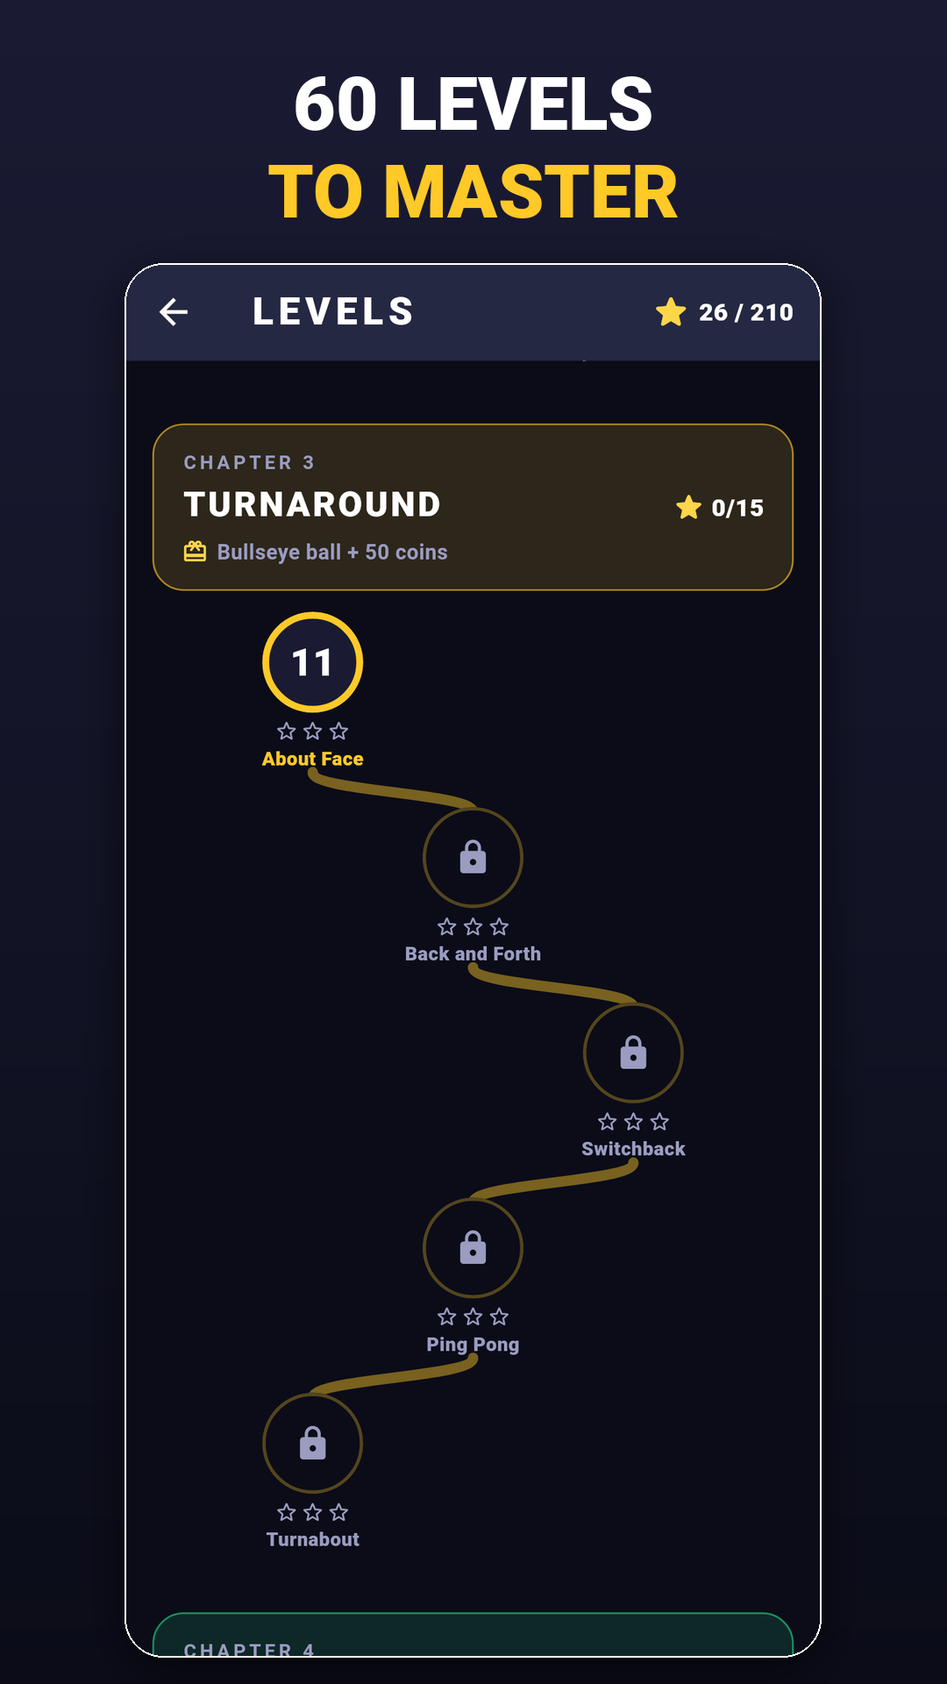
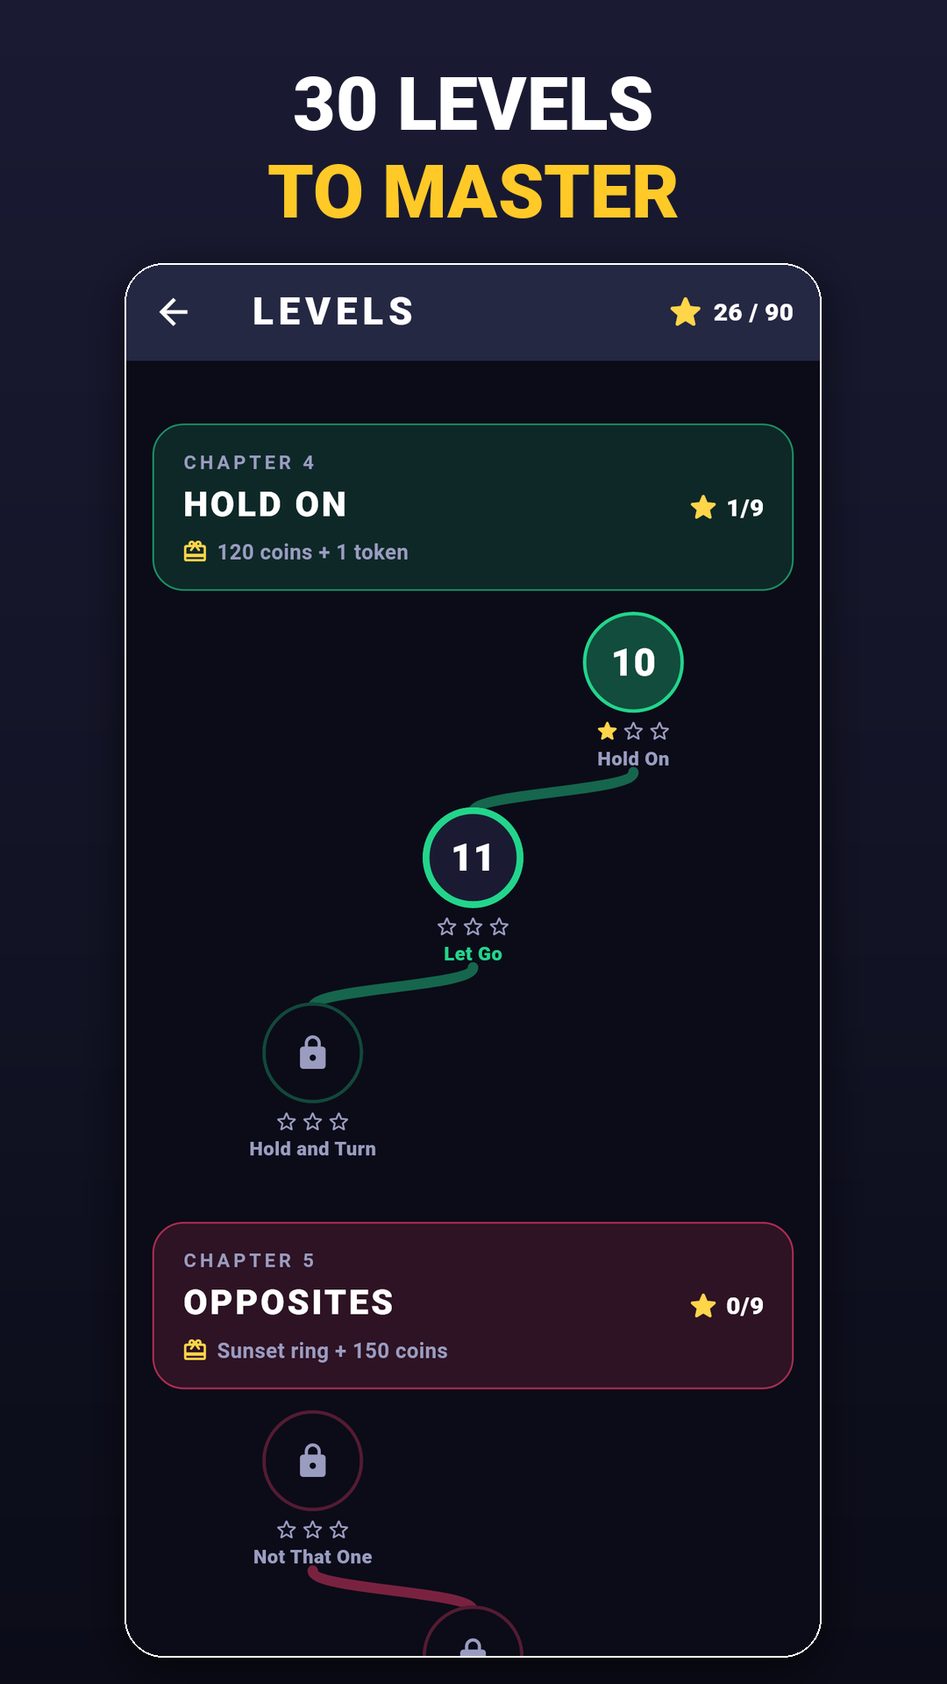
Levels: back to a short introduction, 30 levels in 10 chapters
Three levels per chapter, one chapter per mechanic, including the new
ones: The Basics, Focus, Turnaround (reverse, gold zones, power-ups),
Hold On, Opposites (NOT, decoys), Spin Cycle (spin, ghosts), Split
Second, Fever Pitch, Memory and Mastery (which mixes in holds too).
Difficulty rises evenly to about where the old 24-level map ended.

The Rush time-up test now uses a fixed seed and stops at time-up (a
tap on the game-over screen restarts the run, which made it flaky).

Claude-Session: https://claude.ai/code/session_01VmBvRQvvZ64Y2Kv1F2P6eR

diff --git a/test/new_mechanics_test.dart b/test/new_mechanics_test.dart
@@ -185,12 +185,21 @@ void main() {
 
     test('when time runs out the run ends and is reported once', () {
       final events = <GameEvent>[];
-      final e = newEngine(events)..startRun(best: 0, mode: RunMode.rush);
+      final e = newEngine(events)
+        ..startRun(best: 0, seed: 1, mode: RunMode.rush);
+      // Play until the clock runs out (a tap on the game-over screen would
+      // restart the run, so stop as soon as time is up).
       var guard = 0;
-      while (e.phase != GamePhase.gameOver && guard++ < 2000) {
-        tapTargetCenter(e);
-        if (e.phase == GamePhase.dying) advance(e, 1);
+      while (events.whereType<TimeUpEvent>().isEmpty && guard++ < 2000) {
+        if (e.phase == GamePhase.playing &&
+            e.round!.currentPrimary.hold == false &&
+            timeUntil(e, e.round!.currentPrimary.center) > e.rushLeft) {
+          advance(e, e.rushLeft + 0.1);
+        } else {
+          tapTargetCenter(e);
+        }
       }
+      advance(e, 1);
       expect(e.phase, GamePhase.gameOver);
       final up = events.whereType<TimeUpEvent>().single.summary;
       expect(up.mode, RunMode.rush);

diff --git a/test/meta_test.dart b/test/meta_test.dart
@@ -299,10 +299,10 @@ void main() {
       e.tap(e.time + timeUntil(e, target.center));
     }
 
-    test('70 levels in 14 chapters, unlocked one by one', () {
-      expect(levels, hasLength(70));
-      expect(levels.map((l) => l.chapter).toSet(), hasLength(14));
-      expect(levels.map((l) => l.id).toSet(), hasLength(70));
+    test('30 levels in 10 chapters, unlocked one by one', () {
+      expect(levels, hasLength(30));
+      expect(levels.map((l) => l.chapter).toSet(), hasLength(10));
+      expect(levels.map((l) => l.id).toSet(), hasLength(30));
       expect(levelUnlocked(levels, {}, 0), isTrue);
       expect(levelUnlocked(levels, {}, 1), isFalse);
       expect(levelUnlocked(levels, {'L1': 1}, 1), isTrue);
@@ -333,7 +333,7 @@ void main() {
 
     test('chapters open at a star count and pay out once', () {
       final chapters = chaptersOf(levels);
-      expect(chapters, hasLength(14));
+      expect(chapters, hasLength(10));
       expect(chapters.first.unlockStars, 0);
       for (var i = 1; i < chapters.length; i++) {
         expect(

diff --git a/lib/meta/progression.dart b/lib/meta/progression.dart
@@ -431,7 +431,7 @@ final achievementDefs = <AchievementDef>[
     'levels_all',
     'Graduate',
     'Clear every level',
-    (p) => p.stat(Stat.levelsDone) >= 70,
+    (p) => p.stat(Stat.levelsDone) >= 30,
   ),
   AchievementDef(
     'level_10',

diff --git a/tool/generate_levels.py b/tool/generate_levels.py
@@ -1,9 +1,10 @@
 #!/usr/bin/env python3
-"""Writes assets/config/levels.json: 12 chapters x 5 levels.
+"""Writes assets/config/levels.json: 10 chapters x 3 levels, an introduction
+to every mechanic (Endless is the long game).
 
-Difficulty rises slowly and evenly over the whole map (pointer speed, zone
-size and target count follow the level's position), and every chapter opens
-with an easier lesson level for its new mechanic. Edit the tables below and
+Difficulty rises evenly over the map (pointer speed, zone size and target
+count follow the level's position), and a chapter's lesson level plays like
+an earlier one. Edit the tables below and
 re-run:
 
     python3 tool/generate_levels.py
@@ -26,165 +27,77 @@ CHAPTERS = [
         ("Sweet Spot", "The bright band inside each zone is the Perfect window. Perfects are worth 3, and in a row they raise your combo.",
          {"colors": [1, 1]}, {"ease": 1}, ["perfects:4", "streak:3"]),
         ("Two Colors", "Now there are two colors. Only the one matching the ball counts.",
-         {"colors": [2, 2]}, {}, None),
-        ("Pick the Right One", "Three colors on the ring. Find the ball's color first, then wait for it.",
-         {"colors": [2, 3]}, {}, None),
-        ("Warm-Up Run", "Clear the dots above the ball in a row for a set bonus.",
-         {"colors": [2, 3], "locks": [2, 3]}, {}, None),
+         {"colors": [2, 2]}, {}, ["perfects:5", "streak:4"]),
     ]),
     ("Focus", {"coins": 100}, [
         ("Slow Down", "Perfects fill the FOCUS button in the corner. Tap it to slow time while the meter lasts. Taps on it never count as a miss.",
          {"colors": [1, 2]}, {"ease": 2}, ["focus:1", "streak:3"]),
-        ("Save It", "Focus runs out fast. Save it for the round that needs it.",
-         {"colors": [2, 2]}, {"ease": 1}, ["focus:1", "streak:4"]),
-        ("Twice as Calm", "Fill the meter again with Perfects, then use it again.",
-         {"colors": [2, 3]}, {}, ["focus:2", "perfects:5"]),
+        ("Save It", "Focus runs out fast. Fill it again with Perfects and save it for the round that needs it.",
+         {"colors": [2, 2]}, {"ease": 1}, ["focus:2", "perfects:5"]),
         ("Tiny Targets", "Small zones. Slow time to land them.",
-         {"colors": [2, 3]}, {"sizeDelta": -10}, ["focus:2", "streak:4"]),
-        ("Steady Under Pressure", "Faster, with lock sets. Focus is your friend.",
-         {"colors": [2, 3], "locks": [2, 3]}, {"speedDelta": 5}, ["focus:2", "streak:5"]),
+         {"colors": [2, 3]}, {"sizeDelta": -8}, ["focus:2", "streak:4"]),
     ]),
     ("Turnaround", {"coins": 50, "ball": "bullseye"}, [
         ("About Face", "REVERSE: the pointer flips direction after every hit.",
-         {"colors": [1, 1], "reverse": 1}, {"ease": 1}, None),
-        ("Back and Forth", "Sometimes it flips, sometimes it doesn't. Watch the pointer, not the clock.",
-         {"colors": [2, 2], "reverse": 0.6}, {}, None),
-        ("Switchback", "Every hit flips it, with more colors to choose from.",
-         {"colors": [2, 3], "reverse": 1}, {}, None),
-        ("Ping Pong", "Short hops back and forth. Stay calm.",
-         {"colors": [2, 3], "reverse": 0.8, "locks": [2, 3]}, {}, None),
-        ("Turnabout", "Three colors, flips and lock sets together.",
-         {"colors": [3, 3], "reverse": 0.7, "locks": [2, 4]}, {}, None),
+         {"colors": [1, 1], "reverse": 1}, {"ease": 1}, ["perfects:4", "streak:4"]),
+        ("Greedy", "GREEDY: a thin gold-rimmed zone is worth +5. Go for it, or wait for the safe one.",
+         {"colors": [2, 2], "reverse": 0.5, "bonus": 0.8}, {}, ["greedy:1", "greedy:3"]),
+        ("Lock Sets", "Clear the dots above the ball in a row for a set bonus. Power-ups ride on targets: shield, slow-mo and wide.",
+         {"colors": [2, 3], "reverse": 1, "locks": [3, 4]}, {"powerUpChance": 0.4}, ["powerUps:1", "streak:4"]),
     ]),
     ("Hold On", {"coins": 120, "tokens": 1}, [
         ("Hold On", "HOLD: some targets are long, with a white mark at the end. Press when the pointer is in it, keep holding, and let go on the mark.",
          {"colors": [1, 1], "hold": 1}, {"ease": 2}, ["holds:3", "perfects:2"]),
         ("Let Go", "Letting go right on the white mark is a Perfect. Too soon is a miss.",
          {"colors": [1, 2], "hold": 1}, {"ease": 1}, ["holds:5", "perfects:4"]),
-        ("Mix It Up", "Taps and holds, one after the other. Read each target.",
-         {"colors": [2, 2], "hold": 0.6}, {}, ["holds:3", "streak:4"]),
-        ("Hold and Turn", "Holds with a pointer that flips.",
+        ("Hold and Turn", "Taps and holds, with a pointer that flips. Read each target.",
          {"colors": [2, 3], "hold": 0.7, "reverse": 0.6}, {}, ["holds:3", "streak:4"]),
-        ("Long Haul", "Lots of holds. Use Focus on the tough ones.",
-         {"colors": [2, 3], "hold": 0.7, "locks": [2, 3]}, {}, ["holds:6", "streak:5"]),
     ]),
-    ("Gold Rush", {"coins": 150, "tokens": 1}, [
-        ("Greedy", "GREEDY: a thin gold-rimmed zone is worth +5. Go for it, or wait for the safe one.",
-         {"colors": [1, 2], "bonus": 0.8}, {"ease": 1}, ["greedy:1", "greedy:3"]),
-        ("Power-Ups", "Badges ride on targets: hit the target to collect them. Shield, slow-mo and wide.",
-         {"colors": [2, 2]}, {"powerUpChance": 0.4}, ["powerUps:1", "streak:4"]),
-        ("Shield Up", "A shield absorbs one miss. Keep it to the end for a star.",
-         {"colors": [2, 3], "reverse": 0.3}, {"powerUpChance": 0.4, "powerUpTypes": ["shield"]}, ["shield", "streak:4"]),
-        ("Lucky Streak", "Gold zones and power-ups. Greed is good, sometimes.",
-         {"colors": [2, 3], "bonus": 0.5, "locks": [2, 3]}, {"powerUpChance": 0.3}, ["greedy:1", "streak:5"]),
-        ("Treasure Hunt", "Everything so far, with gold on top.",
-         {"colors": [2, 3], "bonus": 0.5, "reverse": 0.5, "locks": [2, 4]}, {"powerUpChance": 0.2}, None),
-    ]),
-    ("Opposites", {"theme": "sunset"}, [
+    ("Opposites", {"coins": 150, "theme": "sunset"}, [
         ("Not That One", "NOT: the ball shows a crossed-out color. Hit any color EXCEPT that one.",
          {"colors": [3, 3], "inverted": 1}, {"ease": 1}, None),
-        ("Anything But", "NOT rounds now and then. Read the ball before you tap.",
-         {"colors": [3, 3], "inverted": 0.5}, {}, None),
-        ("Mixed Signals", "NOT rounds and flips together.",
-         {"colors": [3, 3], "inverted": 0.4, "reverse": 0.5}, {}, None),
-        ("Double Negative", "Four colors, lots of NOTs.",
-         {"colors": [3, 4], "inverted": 0.5}, {}, None),
-        ("Contrary", "NOT, flips and gold zones.",
-         {"colors": [3, 4], "inverted": 0.4, "reverse": 0.6, "bonus": 0.3}, {}, None),
-    ]),
-    ("Decoys", {"coins": 200}, [
         ("Decoys", "DECOYS: a wrong color sits right next to the right one. Tap a little early or late and you lose.",
-         {"colors": [3, 3], "decoys": 1}, {"ease": 1}, None),
-        ("Close Call", "Decoys on every round. Aim for the middle.",
          {"colors": [3, 4], "decoys": 1}, {}, ["perfects:6", "ratio:60"]),
-        ("Fakeout", "Decoys and flips.",
-         {"colors": [3, 4], "decoys": 1, "reverse": 0.6}, {}, None),
-        ("Near Miss", "Decoys with NOT rounds: the wrong color might be the right one.",
-         {"colors": [3, 4], "decoys": 1, "inverted": 0.3}, {}, None),
-        ("Hall of Mirrors", "Decoys, flips and NOTs together.",
-         {"colors": [3, 4], "decoys": 1, "reverse": 0.6, "inverted": 0.3, "locks": [2, 4]}, {}, None),
+        ("Mixed Signals", "NOT rounds, decoys and flips together. Read the ball first.",
+         {"colors": [3, 4], "decoys": 1, "reverse": 0.6, "inverted": 0.4}, {}, None),
     ]),
-    ("Spin Cycle", {"coins": 50, "ball": "swirl"}, [
+    ("Spin Cycle", {"coins": 150, "tokens": 1}, [
         ("Carousel", "SPIN: the ring turns too, so zones move while the pointer moves.",
          {"colors": [2, 2], "rotate": 1}, {"ease": 1}, None),
-        ("Merry-Go-Round", "Spinning rings with more colors.",
-         {"colors": [2, 3], "rotate": 0.8}, {}, None),
-        ("Counterspin", "The ring and the pointer don't always turn the same way.",
-         {"colors": [2, 3], "rotate": 1, "reverse": 0.5}, {}, None),
-        ("Whirl", "Spin and decoys.",
-         {"colors": [3, 4], "rotate": 0.8, "decoys": 1}, {}, None),
-        ("Tilt-a-Whirl", "Spin, flips and NOTs.",
-         {"colors": [3, 4], "rotate": 0.7, "reverse": 0.5, "inverted": 0.3}, {}, None),
-    ]),
-    ("Ghosts", {"coins": 150, "tokens": 1}, [
         ("Ghosts", "GHOST: zones blink in and out. They always start visible: remember where they are.",
-         {"colors": [2, 2], "ghost": 1}, {"ease": 1}, None),
-        ("Now You See It", "More ghosts, more colors.",
-         {"colors": [2, 3], "ghost": 0.7}, {}, None),
+         {"colors": [2, 3], "ghost": 1}, {"ease": 1}, None),
         ("Haunted Carousel", "Spinning ghosts. Watch the ring, not just the pointer.",
-         {"colors": [2, 3], "ghost": 0.7, "rotate": 0.6}, {}, None),
-        ("Poltergeist", "Ghosts, flips and decoys.",
-         {"colors": [3, 4], "ghost": 0.6, "reverse": 0.6, "decoys": 1}, {}, None),
-        ("Seance", "Ghosts, NOTs and spin.",
-         {"colors": [3, 4], "ghost": 0.6, "inverted": 0.3, "rotate": 0.4}, {}, None),
+         {"colors": [3, 4], "rotate": 0.8, "ghost": 0.7, "reverse": 0.5}, {}, None),
     ]),
-    ("Split Second", {"theme": "ocean"}, [
+    ("Split Second", {"coins": 50, "ball": "swirl"}, [
         ("Two at Once", "SPLIT: the ball is two colors. Hit the left one first, then the right one, in one lap.",
          {"colors": [2, 3], "split": 1}, {"ease": 1, "addTargets": -2}, None),
         ("Split Decision", "Splits that change direction. The second color is always after the first.",
          {"colors": [2, 4], "split": 0.7, "reverse": 1}, {}, None),
-        ("Double Take", "Splits with four colors.",
-         {"colors": [3, 4], "split": 0.6}, {}, None),
-        ("Splitting Hairs", "Splits and decoys.",
-         {"colors": [3, 4], "split": 0.5, "decoys": 1}, {}, None),
-        ("Divide and Conquer", "Splits, NOTs and spin.",
-         {"colors": [3, 4], "split": 0.5, "inverted": 0.3, "rotate": 0.4}, {}, None),
+        ("Power Play", "Lots of power-ups. Collect a shield and keep it to the end.",
+         {"colors": [2, 4], "split": 0.3, "inverted": 0.3, "decoys": 1}, {"powerUpChance": 0.4, "powerUpTypes": ["shield"]}, ["shield", "streak:6"]),
     ]),
     ("Fever Pitch", {"coins": 250, "tokens": 1}, [
         ("Fever Pitch", "5 Perfects in a row starts FEVER: double points and a faster pointer. A Good ends it.",
-         {"colors": [1, 2]}, {"ease": 1}, ["fevers:1", "streak:6"]),
-        ("Heat Wave", "Every Perfect during Fever scores double. Keep it going.",
-         {"colors": [2, 2]}, {}, ["fevers:1", "streak:8"]),
-        ("Hot and Cold", "Fever through flips.",
-         {"colors": [2, 3], "reverse": 0.6}, {}, ["fevers:1", "streak:7"]),
-        ("Wildfire", "Fever on a spinning ring.",
-         {"colors": [2, 3], "rotate": 0.5}, {}, ["fevers:1", "streak:8"]),
-        ("Inferno", "Fever with decoys and flips.",
-         {"colors": [3, 4], "decoys": 1, "reverse": 0.5}, {}, ["fevers:1", "ratio:75"]),
+         {"colors": [1, 2]}, {"ease": 2}, ["fevers:1", "streak:6"]),
+        ("Heat Wave", "Every Perfect during Fever scores double. Keep it going through flips.",
+         {"colors": [2, 3], "reverse": 0.5}, {}, ["fevers:1", "streak:8"]),
+        ("Inferno", "Fever with decoys and holds.",
+         {"colors": [3, 4], "decoys": 1, "hold": 0.3}, {}, ["fevers:1", "ratio:70"]),
     ]),
-    ("Memory", {"coins": 50, "ball": "star"}, [
+    ("Memory", {"coins": 50, "theme": "ocean"}, [
         ("Remember", "BOSS: colors flash in the ball one at a time. Remember them, then hit them in that order.",
-         {"colors": [1, 2]}, {"targets": 4, "bossEvery": 2, "bossLength": [3, 3], "ease": 2}, ["perfects:3", "streak:4"]),
-        ("Recall", "Two bosses, with normal rounds between them.",
-         {"colors": [2, 2]}, {"targets": 6, "bossEvery": 2, "bossLength": [3, 3]}, ["perfects:5", "streak:5"]),
+         {"colors": [1, 2]}, {"targets": 4, "bossEvery": 2, "bossLength": [3, 3], "ease": 3}, ["perfects:3", "streak:4"]),
         ("Long Memory", "Four colors to remember this time.",
-         {"colors": [2, 2]}, {"targets": 6, "bossEvery": 2, "bossLength": [4, 4]}, ["perfects:6", "streak:5"]),
+         {"colors": [2, 2]}, {"targets": 6, "bossEvery": 2, "bossLength": [4, 4], "ease": 2}, ["perfects:6", "streak:5"]),
         ("Boss Rush", "A boss every other round, with NOT rounds in between.",
-         {"colors": [3, 3], "inverted": 0.5}, {"targets": 8, "bossEvery": 2, "bossLength": [3, 4]}, ["perfects:8", "streak:6"]),
-        ("Mind Palace", "Long sequences between flips.",
-         {"colors": [3, 3], "reverse": 0.5}, {"targets": 9, "bossEvery": 3, "bossLength": [4, 4]}, ["perfects:9", "streak:6"]),
+         {"colors": [3, 3], "inverted": 0.5}, {"targets": 9, "bossEvery": 2, "bossLength": [3, 4]}, ["perfects:8", "streak:6"]),
     ]),
-    ("Combo Craft", {"coins": 300, "tokens": 2}, [
-        ("Steady Hands", "Every 3 Perfects in a row raise your combo multiplier, up to x5. A Good resets it.",
-         {"colors": [1, 2]}, {"ease": 1}, ["combo:3", "streak:6"]),
-        ("Rhythm", "Long Perfect streaks on a calm ring.",
-         {"colors": [2, 2]}, {}, ["combo:4", "streak:9"]),
-        ("Flow", "Keep the combo going through flips.",
-         {"colors": [2, 3], "reverse": 0.5}, {}, ["combo:4", "ratio:70"]),
-        ("In the Zone", "Keep the combo going on a spinning ring.",
-         {"colors": [2, 3], "rotate": 0.4}, {}, ["combo:5", "ratio:70"]),
-        ("Perfectionist", "Nothing but Perfects.",
-         {"colors": [2, 3], "reverse": 0.4, "decoys": 1}, {}, ["combo:5", "ratio:80"]),
-    ]),
-    ("Mastery", {"coins": 500, "tokens": 3}, [
+    ("Mastery", {"coins": 500, "tokens": 3, "ball": "star"}, [
         ("Chaos", "Everything you have learned, mixed.",
          {"colors": [2, 4], "hold": 0.2, "reverse": 0.5, "decoys": 1, "rotate": 0.4, "bonus": 0.2, "inverted": 0.2, "split": 0.2, "ghost": 0.2, "locks": [3, 4]}, {"powerUpChance": 0.15}, None),
         ("Gauntlet", "Longer, with a boss in the middle.",
-         {"colors": [3, 4], "reverse": 0.6, "decoys": 1, "rotate": 0.5, "inverted": 0.25, "split": 0.25, "ghost": 0.25, "locks": [3, 5]}, {"addTargets": 4, "bossEvery": 11, "bossLength": [4, 4]}, None),
-        ("Storm", "Fast spins, ghosts and holds.",
-         {"colors": [3, 4], "hold": 0.25, "reverse": 0.6, "rotate": 0.7, "ghost": 0.3, "decoys": 1}, {}, None),
-        ("Endgame", "No mercy: decoys, splits and NOTs.",
-         {"colors": [3, 4], "reverse": 0.6, "decoys": 1, "inverted": 0.35, "split": 0.35, "rotate": 0.4}, {}, None),
+         {"colors": [3, 4], "hold": 0.2, "reverse": 0.6, "decoys": 1, "rotate": 0.5, "inverted": 0.25, "split": 0.25, "ghost": 0.25, "locks": [3, 5]}, {"addTargets": 4, "bossEvery": 11, "bossLength": [4, 4]}, None),
         ("Hue Master", "The final test. Three stars here means you have mastered Hue Lock.",
          {"colors": [3, 4], "hold": 0.2, "reverse": 0.6, "decoys": 1, "rotate": 0.6, "inverted": 0.3, "split": 0.3, "ghost": 0.3, "bonus": 0.2, "locks": [4, 5]}, {"addTargets": 6, "bossEvery": 13, "bossLength": [4, 4]}, None),
     ]),
@@ -193,23 +106,23 @@ CHAPTERS = [
 
 def unlock_stars(chapter):
     """About half the stars of the chapters before it (1.5 per level)."""
-    return round(chapter * 5 * 1.5)
+    return round(chapter * 3 * 1.5)
 
 
 def level(g, title, teaches, stage, extra, goals):
     """[g] is the level's 0-based position on the whole map."""
     ease = extra.get("ease", 0)
-    d = max(0, g - 3 * ease)  # lessons play like a few levels earlier
+    d = max(0, g - ease)  # lessons play like an earlier level
     # "targets" sets the count; "addTargets" adjusts the usual one.
-    targets = extra.get("targets", 8 + d // 5 + extra.get("addTargets", 0))
+    targets = extra.get("targets", 8 + d // 3 + extra.get("addTargets", 0))
     out = {
         "title": title,
         "teaches": teaches,
         "targets": targets,
-        "speed": round(90 + 1.1 * d) + extra.get("speedDelta", 0),
-        "speedPerTarget": round(0.8 + 0.02 * d, 2),
-        "size": round(64 - 0.3 * d + extra.get("sizeDelta", 0), 1),
-        "sizePerTarget": round(-0.1 - 0.006 * d, 3),
+        "speed": round(90 + 2.2 * d) + extra.get("speedDelta", 0),
+        "speedPerTarget": round(0.8 + 0.04 * d, 2),
+        "size": round(64 - 0.6 * d + extra.get("sizeDelta", 0), 1),
+        "sizePerTarget": round(-0.1 - 0.012 * d, 3),
         "stage": stage,
     }
     for k in ("powerUpChance", "powerUpTypes", "bossEvery", "bossLength"):
@@ -219,7 +132,7 @@ def level(g, title, teaches, stage, extra, goals):
         hits = targets * (2 if stage.get("split", 0) >= 0.5 else 1)
         goals = [
             f"perfects:{max(2, math.ceil(targets * 0.5))}",
-            f"streak:{min(hits, 3 + d // 9)}",
+            f"streak:{min(hits, 3 + d // 5)}",
         ]
     out["goals"] = goals
     if extra.get("focus"):

diff --git a/tool/frame_screenshots.py b/tool/frame_screenshots.py
@@ -22,7 +22,7 @@ SHOTS = [
     ("2_perfect", "CHAIN PERFECTS", "INTO FEVER", RED),
     ("3_not", "RULES THAT", "FLIP ON YOU", BLUE),
     ("4_boss", "REMEMBER THE", "BOSS SEQUENCE", GREEN),
-    ("5_levels", "60 LEVELS", "TO MASTER", YELLOW),
+    ("5_levels", "30 LEVELS", "TO MASTER", YELLOW),
     ("6_game_over", "SO CLOSE.", "ONE MORE TRY?", RED),
     ("7_perks", "BEAT THE BOSS,", "PICK A PERK", GREEN),
     ("8_hold_focus", "HOLD ON,", "SLOW DOWN TIME", BLUE),

diff --git a/README.md b/README.md
@@ -193,7 +193,7 @@ test/         generator fairness, hit judging, engine, modes, levels,
 | Mode | What it is | Where |
 |---|---|---|
 | **Endless** | The high-score mode (tap on home). New mechanics and NOT / split rounds show a banner but never freeze the run; only boss rounds pause. | `GameEngine` (`RunMode.endless`) |
-| **Levels** | A map of 70 short levels in 14 chapters (generated by `tool/generate_levels.py`). Each chapter opens with a lesson for one mechanic (basics, Focus, reverse, hold zones, gold and power-ups, NOT, decoys, spin, ghosts, split, Fever, boss memory, combos, mastery), and difficulty rises slowly and evenly across the map. Clearing a level is one star; each of its two goals ("Hit 5 Perfects", "Finish with a shield", ...) is another, and stars stay earned across tries. A chapter opens at a total star count, and clearing it gives a reward once: coins, tokens, or a ball or ring you can't buy (Bullseye, Swirl, Superstar, Sunset, Deep Sea). Every star in a chapter adds a bonus. | `assets/config/levels.json`, `lib/meta/levels.dart`, `lib/game/star_goals.dart`, `lib/ui/levels_screen.dart` |
+| **Levels** | An introduction to the game: a map of 30 short levels in 10 chapters of 3 (generated by `tool/generate_levels.py`). Each chapter opens with a lesson for its mechanic (basics, Focus, reverse with gold zones and power-ups, hold zones, NOT and decoys, spin and ghosts, split, Fever, boss memory, mastery), and difficulty rises evenly across the map. Clearing a level is one star; each of its two goals ("Hit 5 Perfects", "Finish with a shield", ...) is another, and stars stay earned across tries. A chapter opens at a total star count, and clearing it gives a reward once: coins, tokens, or a ball or ring you can't buy (Bullseye, Swirl, Superstar, Sunset, Deep Sea). Every star in a chapter adds a bonus. | `assets/config/levels.json`, `lib/meta/levels.dart`, `lib/game/star_goals.dart`, `lib/ui/levels_screen.dart` |
 | **Daily Challenge** | The same seeded run for everyone today, on the Pacific-time day that matches Play Games daily leaderboards. One free attempt, plus up to 2 more for a rewarded ad. No continues. | `dailyChallengeDay` / `dailySeed` in `lib/meta/progression.dart` |
 | **Rush** | One minute, no game over: a miss costs 5 s, a Perfect adds 0.5 s, no boss pauses. Its own best and leaderboard. | `GameEngine` (`RunMode.rush`), `config.rush` |
 | **Zen** | No game over and no score. A miss just resets the streak. | `GameEngine._onMiss` |

diff --git a/docs/store/listing.md b/docs/store/listing.md
@@ -55,7 +55,7 @@ To regenerate them:
 >
 > **Ways to play**
 > - **Endless:** how far can you go? Stages change every 20 rounds.
-> - **Levels:** a map of 70 levels in 14 chapters that teach every trick. Each
+> - **Levels:** a map of 30 levels that teach every trick. Each
 >   level has three star goals; stars open new chapters and exclusive balls
 >   and rings.
 > - **Rush:** one minute, no game over. How high can you score?

diff --git a/docs/RELEASE.md b/docs/RELEASE.md
@@ -118,7 +118,7 @@ This needs the app created in Play Console first (section 1, step 3).
    - `Endless`: the best Endless score
    - `Daily Challenge`
    - `Rush`: one-minute mode
-   - `Level stars`: limit it to 0 – 210
+   - `Level stars`: limit it to 0 – 90
 
    Play Games keeps daily, weekly and all-time views of each one.
 5. **Achievements (optional):** one per entry in `achievementDefs` in
